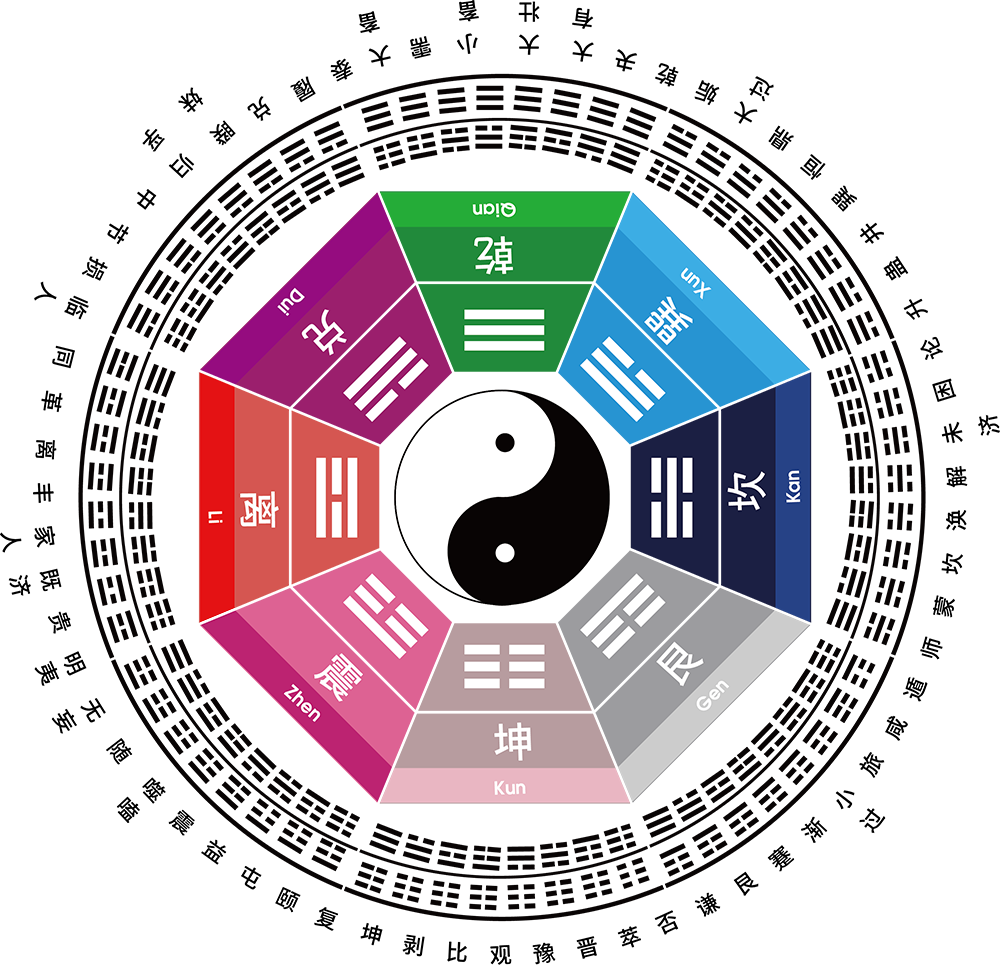
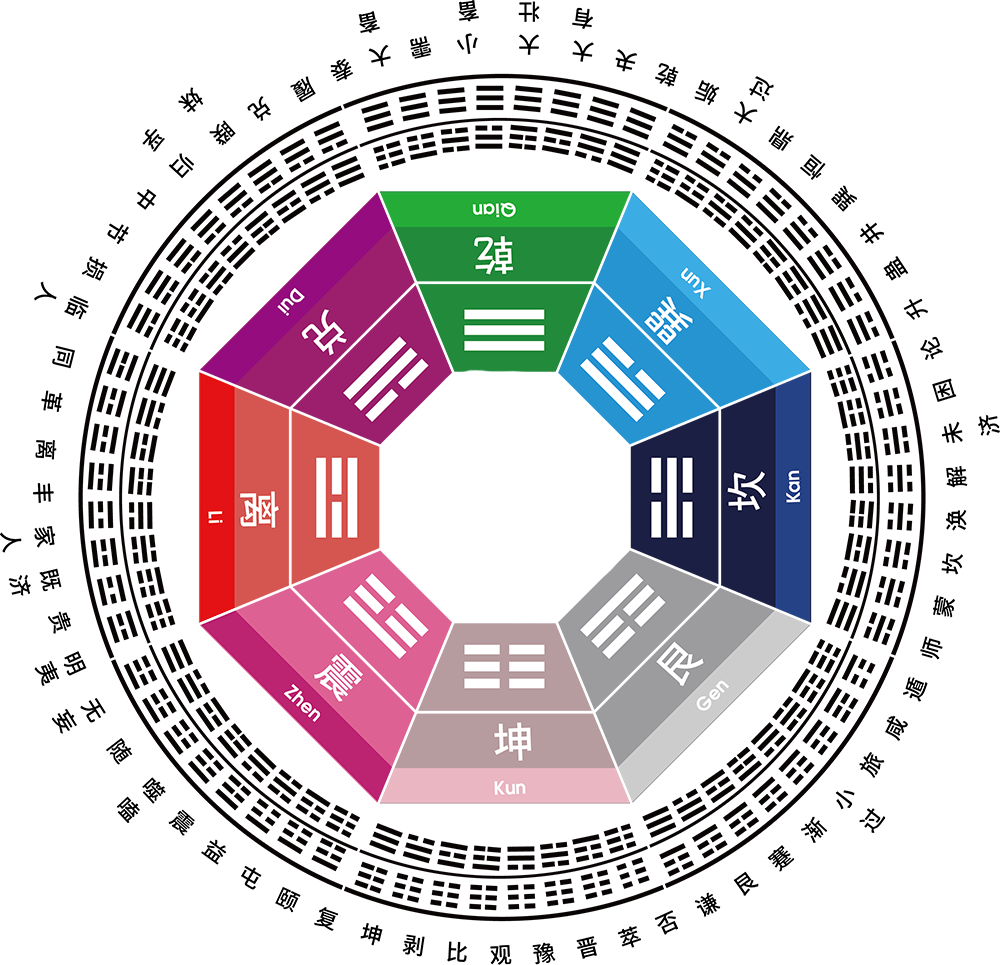
version2.0

Changed region(s): [[0.434, 0.4041, 0.62, 0.6528]]

diff --git a/index.html b/index.html
@@ -38,7 +38,7 @@
         async function init() {
 
             Assets.add('inImg', 'img/in.png?a=1')
-            Assets.add('outImg', 'img/out1.png?a=2')
+            Assets.add('outImg', 'img/out1.png?a=4')
             Assets.add('outImg1', 'img/out2.png')
 
             Assets.add('line1', 'img/line1.png')
@@ -62,31 +62,35 @@
             const container1 = new PIXI.Container()
             const inSprite = new PIXI.Sprite(assets.inImg)
             const outSprite = new PIXI.Sprite(assets.outImg)
-            const outSprite1 = new PIXI.Sprite(assets.outImg1)
+
 
             const graphicsArray = createGraphics()
 
 
 
             app.stage.addChild(container)
-            app.stage.addChild(container1)
+
             container.addChild(inSprite)
             container.addChild(outSprite)
-            graphicsAn(graphicsArray, container)
 
 
             setContainer(container)
 
 
-            console.log(container)
-
+            const outSprite1 = new PIXI.Sprite(assets.outImg1)
+            app.stage.addChild(container1)
             container1.addChild(outSprite1)
+            outSprite1.alpha = 0
             container1.x = container.x
             container1.y = container.y
             container1.pivot.x = container1.width / 2
             container1.pivot.y = container1.height / 2
             container1.scale = { x: 0.7, y: 0.7 }
 
+            const linesAll = lines(container1, assets)
+
+
+            graphicsAn(graphicsArray, container, linesAll)
 
             setInSprite(inSprite, container)
 
@@ -97,14 +101,61 @@
 
         }
         function lines(container, assets) {
-            console.log(container)
             const line1 = new PIXI.Sprite(assets.line1)
-            line1.scale = { x: 0.8, y: 0.8 }
-            line1.x = 350
-            line1.y = 100
+            line1.x = 335
+            line1.y = 0
+            line1.scale = { x: 1.37, y: 1.37 }
             container.addChild(line1)
+
+            const line2 = new PIXI.Sprite(assets.line2)
+            line2.x = 750
+            line2.y = 50
+            line2.scale = { x: 1.37, y: 1.37 }
+            container.addChild(line2)
+
+
+            const line3 = new PIXI.Sprite(assets.line3)
+            line3.x = 1016
+            line3.y = 350
+            line3.scale = { x: 1.37, y: 1.37 }
+            container.addChild(line3)
+
+            const line4 = new PIXI.Sprite(assets.line4)
+            line4.x = 740
+            line4.y = 750
+            line4.scale = { x: 1.37, y: 1.37 }
+            container.addChild(line4)
+
+
+            const line5 = new PIXI.Sprite(assets.line5)
+            line5.x = 350
+            line5.y = 1020
+            line5.scale = { x: 1.37, y: 1.37 }
+            container.addChild(line5)
+
+
+            const line6 = new PIXI.Sprite(assets.line6)
+            line6.x = 60
+            line6.y = 760
+            line6.scale = { x: 1.37, y: 1.37 }
+            container.addChild(line6)
+
+
+            const line7 = new PIXI.Sprite(assets.line7)
+            line7.x = 0
+            line7.y = 355
+            line7.scale = { x: 1.37, y: 1.37 }
+            container.addChild(line7)
+
+            const line8 = new PIXI.Sprite(assets.line8)
+            line8.x = 40
+            line8.y = 50
+            line8.scale = { x: 1.37, y: 1.37 }
+            container.addChild(line8)
+
+            return [line1, line2, line3, line4, line5, line6, line7, line8]
         }
-        function graphicsAn(graphicsArray, container) {
+        function graphicsAn(graphicsArray, container, linesAll) {
 
             const graphicsAnmationsShow = graphicsAnmationShow(graphicsArray)
             const graphicsAnmationsHidden = graphicsAnmationHidden(graphicsArray)
@@ -116,9 +167,11 @@
                 graphics.interactive = true
                 graphics.cursor = 'pointer'
                 graphics.alpha = 0
+                linesAll[idx].alpha = 0
                 container.addChild(graphics)
                 graphics.on('mouseenter', function () {
                     // console.log('mouseenter')
+                    linesAll[idx].alpha = 1
                     if (timer !== null) {
                         // console.log('clearTimeout')
                         clearTimeout(timer)
@@ -142,6 +195,7 @@
 
                 graphics.on('mouseleave', () => {
                     // console.log('mouseleave')
+                    linesAll[idx].alpha = 0
                     timer = setTimeout(() => {
                         // console.log('timer')
                         graphicsAnmationsHidden.forEach((graphics, i) => {
@@ -293,7 +347,7 @@
 
             const graphics5 = new PIXI.Graphics()
             graphics5.beginFill(0xFFFFFF, 1)
-            graphics5.moveTo(555, 624)
+            graphics5.moveTo(556, 623)
             graphics5.lineTo(452, 622)
             graphics5.lineTo(342, 889)
             graphics5.lineTo(348, 959)
@@ -308,7 +362,7 @@
             const graphics6 = new PIXI.Graphics()
             graphics6.beginFill(0xFFFFFF, 1)
             graphics6.moveTo(452, 622)
-            graphics6.lineTo(377, 549)
+            graphics6.lineTo(380, 548)
             graphics6.lineTo(0, 705)
             graphics6.lineTo(96, 841)
             graphics6.lineTo(344, 958)
@@ -319,14 +373,14 @@
             const graphics7 = new PIXI.Graphics()
             graphics7.beginFill(0xFFFFFF, 1)
             graphics7.moveTo(0, 705)
-            graphics7.lineTo(377, 549)
-            graphics7.lineTo(378, 445)
+            graphics7.lineTo(380, 549)
+            graphics7.lineTo(380, 445)
             graphics7.lineTo(0, 290)
             graphics7.closePath()
             graphics7.endFill()
             const graphics8 = new PIXI.Graphics()
             graphics8.beginFill(0xFFFFFF, 1)
-            graphics8.moveTo(378, 445)
+            graphics8.moveTo(380, 445)
             graphics8.lineTo(452, 373)
             graphics8.lineTo(298, 0)
             graphics8.lineTo(91, 80)
